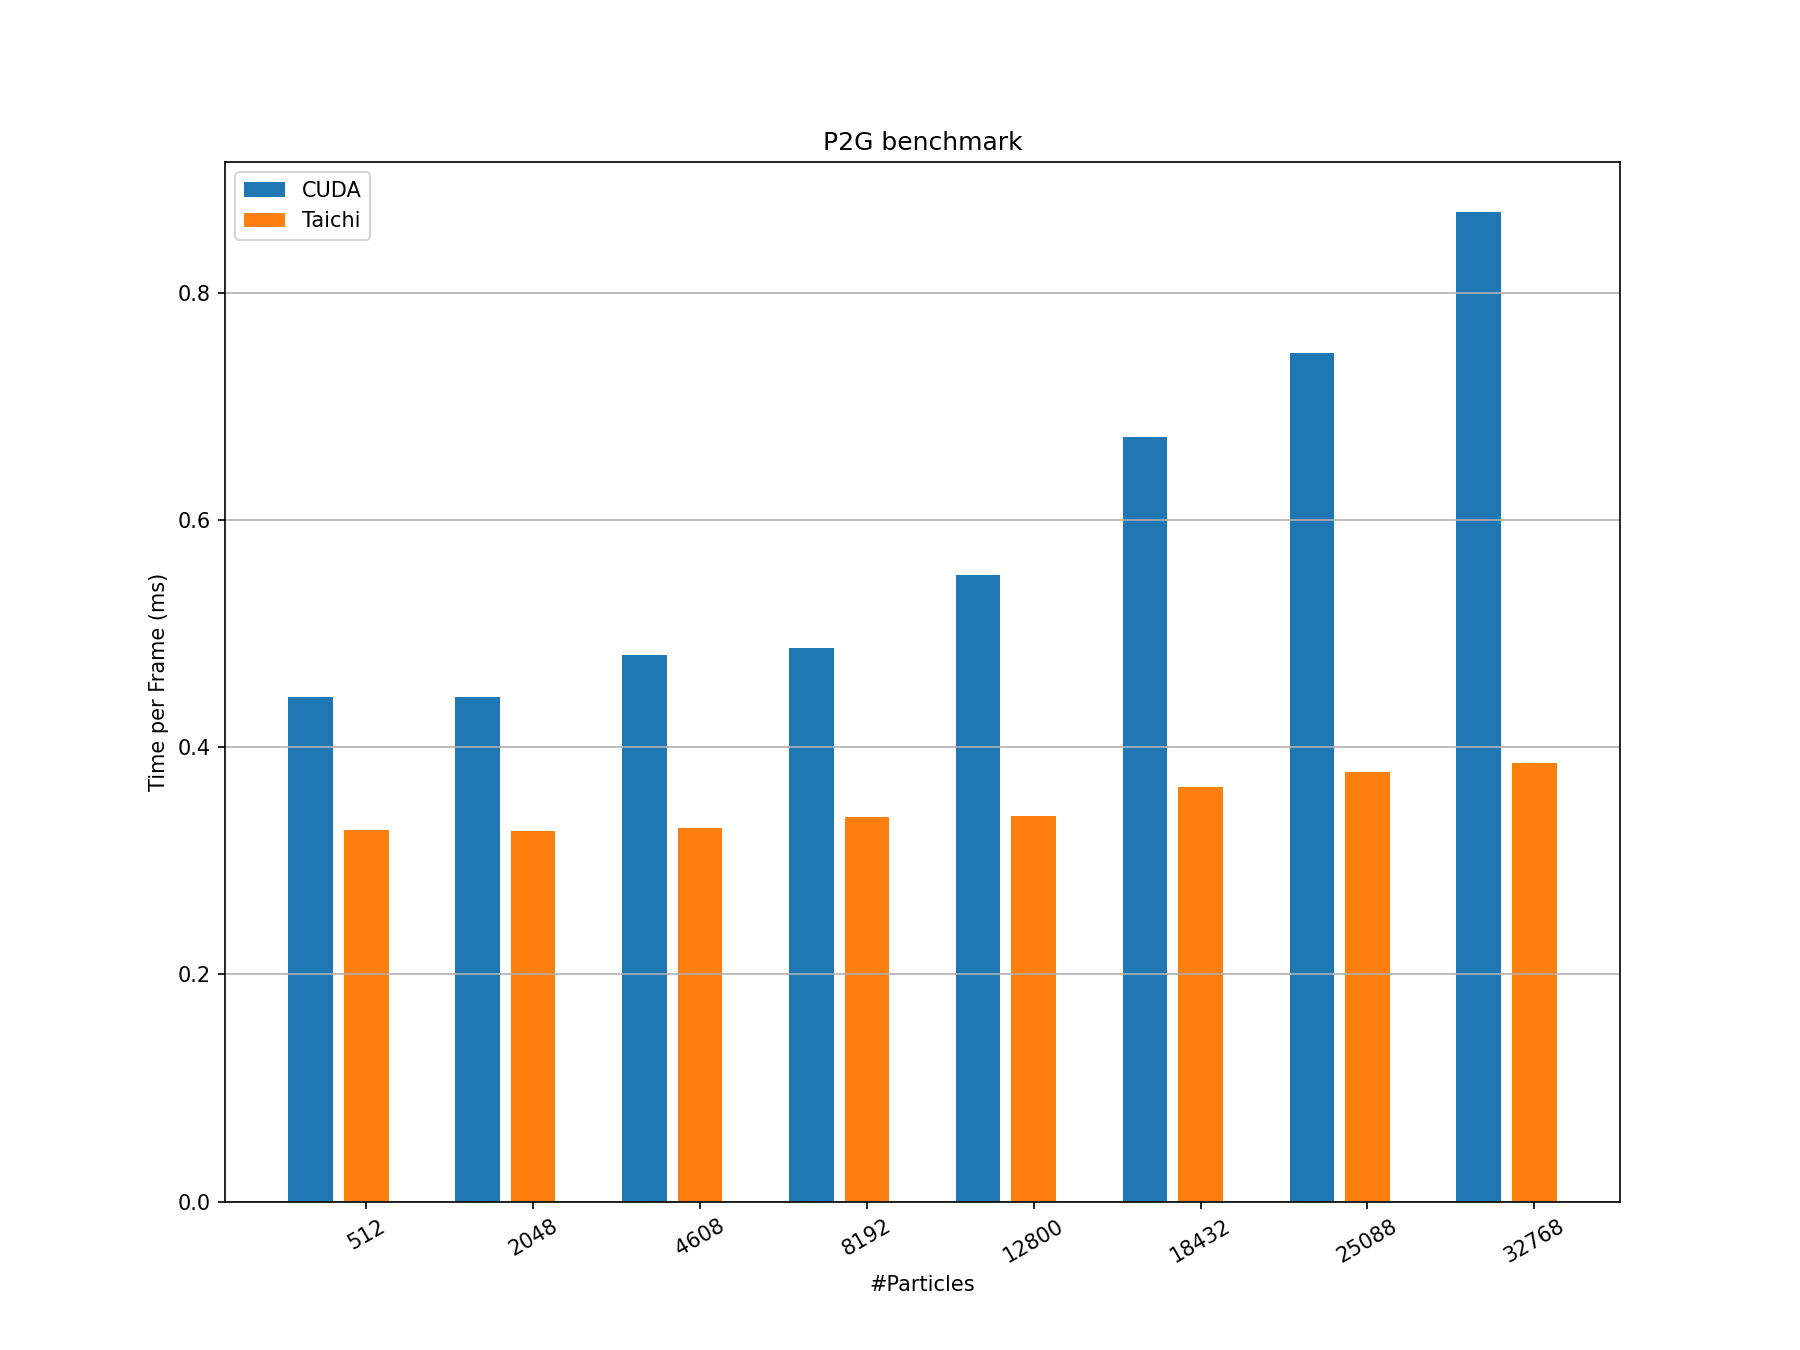
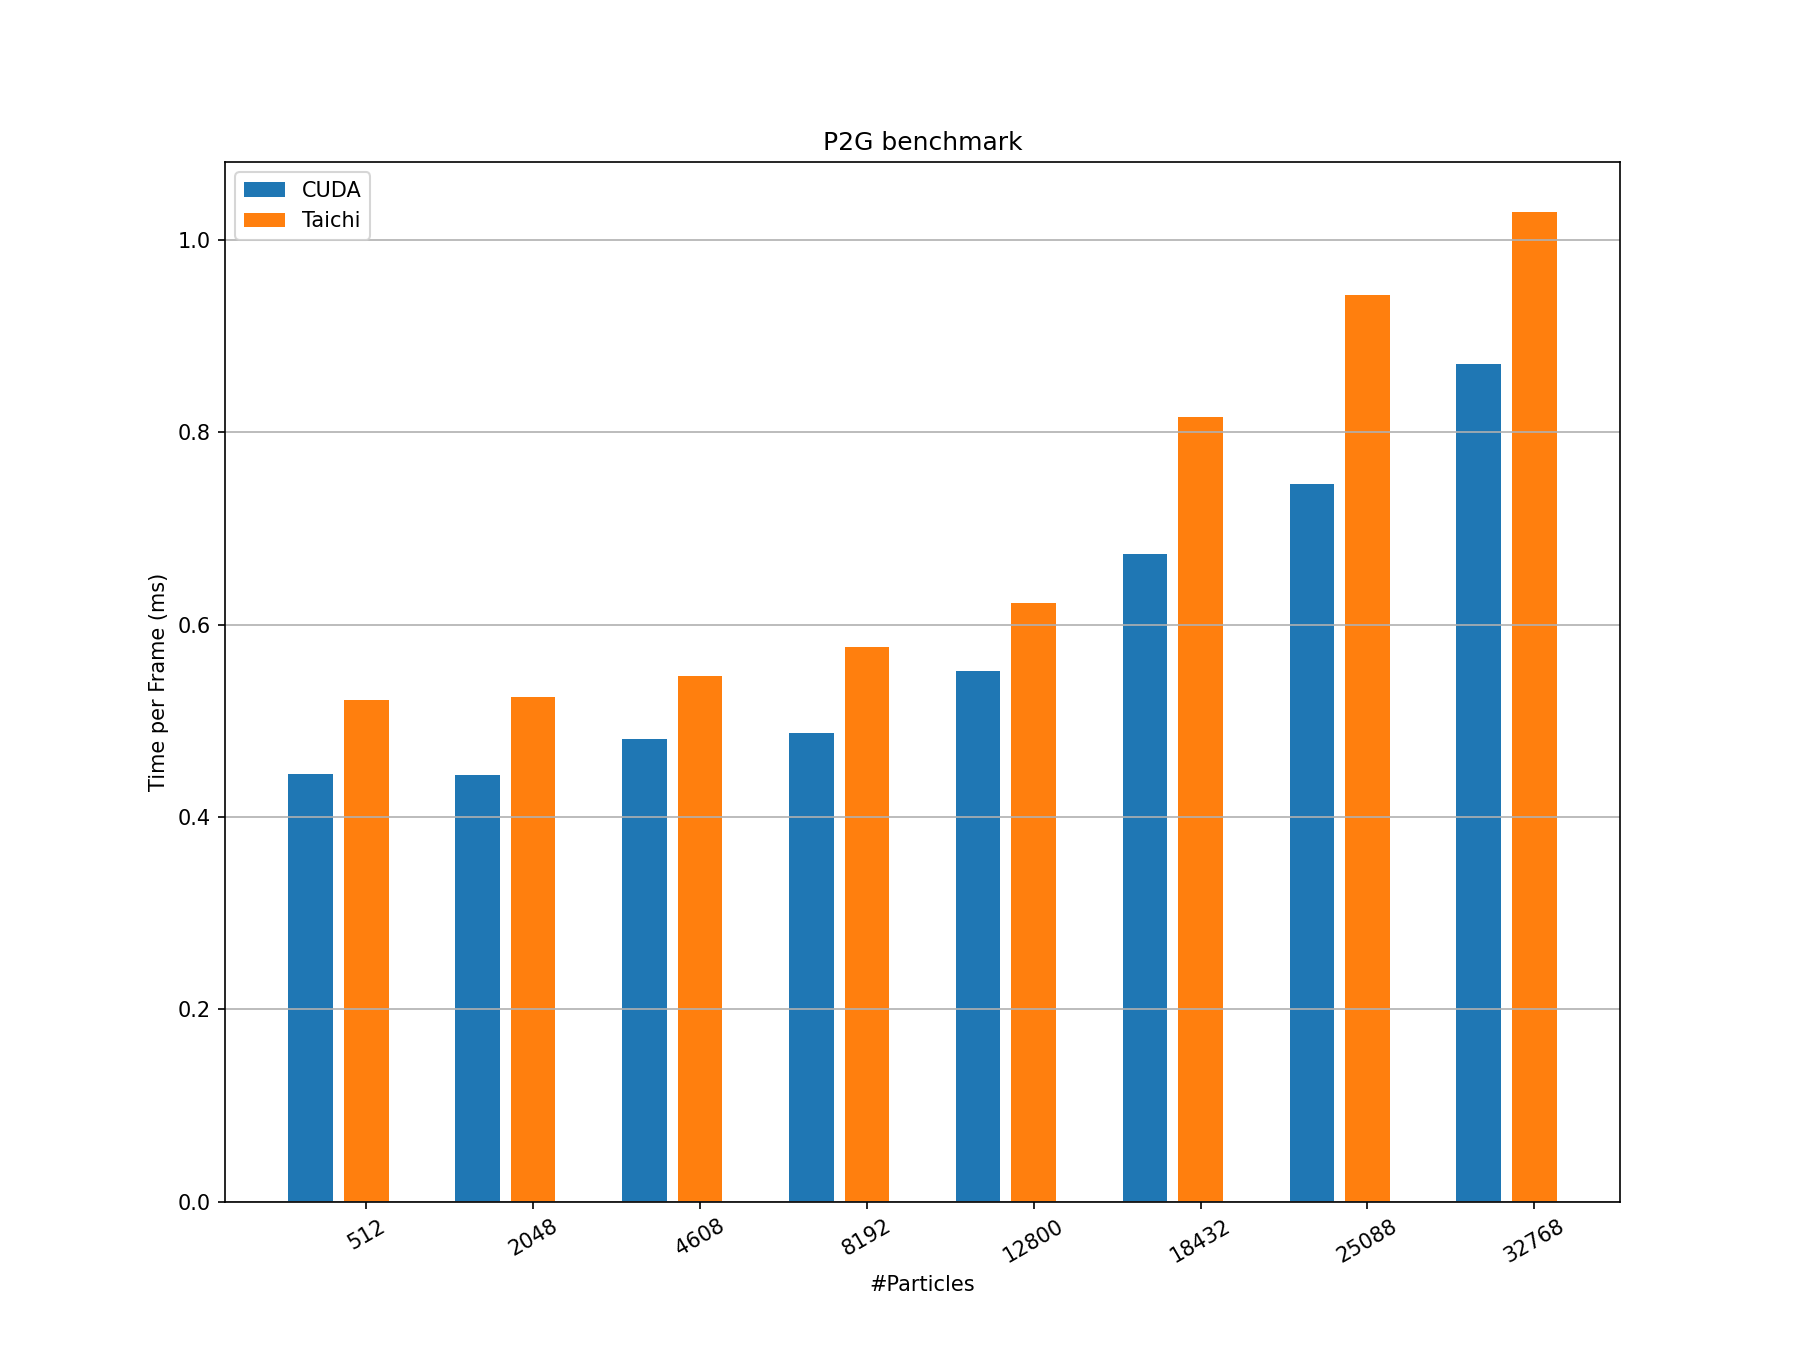
Update p2g plot

diff --git a/p2g/plot_benchmark.py b/p2g/plot_benchmark.py
@@ -4,7 +4,7 @@ import os
 
 cuda_sample_results = {'cuda_baseline': [{'n_particles': 512, 'time_ms': 0.444458}, {'n_particles': 2048, 'time_ms': 0.44377}, {'n_particles': 4608, 'time_ms': 0.481411}, {'n_particles': 8192, 'time_ms': 0.487567}, {'n_particles': 12800, 'time_ms': 0.551323}, {'n_particles': 18432, 'time_ms': 0.673213}, {'n_particles': 25088, 'time_ms': 0.746727}, {'n_particles': 32768, 'time_ms': 0.871354}]}
 
-taichi_sample_results = {'taichi_baseline': [{'n_particles': 512, 'time_ms': 0.3269685341784623}, {'n_particles': 2048, 'time_ms': 0.32648004296831346}, {'n_particles': 4608, 'time_ms': 0.3284883232410607}, {'n_particles': 8192, 'time_ms': 0.33818339550961696}, {'n_particles': 12800, 'time_ms': 0.33936923242094963}, {'n_particles': 18432, 'time_ms': 0.36472302343426577}, {'n_particles': 25088, 'time_ms': 0.3777477568362997}, {'n_particles': 32768, 'time_ms': 0.38578442383041534}]}
+taichi_sample_results = {'taichi_baseline': [{'n_particles': 512, 'time_ms': 0.5216462373027753}, {'n_particles': 2048, 'time_ms': 0.5243271660049231}, {'n_particles': 4608, 'time_ms': 0.546237979492048}, {'n_particles': 8192, 'time_ms': 0.5765281875085293}, {'n_particles': 12800, 'time_ms': 0.621946640620763}, {'n_particles': 18432, 'time_ms': 0.8157364931662414}, {'n_particles': 25088, 'time_ms': 0.9429942363254895}, {'n_particles': 32768, 'time_ms': 1.0296167158259095}]}
 
 def extract_perf(results):
     perf = []

diff --git a/p2g/src/taichi/p2g.py b/p2g/src/taichi/p2g.py
@@ -30,7 +30,7 @@ def run_p2g(n_grid = 128):
             w = [0.5 * (1.5 - fx)**2, 0.75 - (fx - 1)**2, 0.5 * (fx - 0.5)**2]
             stress = -dt * 4 * E * p_vol * (J[p] - 1) / dx**2
             affine = ti.Matrix([[stress, 0], [0, stress]]) + p_mass * C[p]
-            for i, j in ti.static(ti.ndrange(1, 1)):
+            for i, j in ti.static(ti.ndrange(3, 3)):
                 offset = ti.Vector([i, j])
                 dpos = (offset - fx) * dx
                 weight = w[i].x * w[j].y
